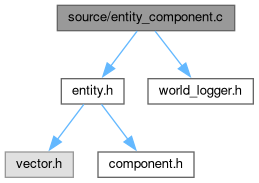
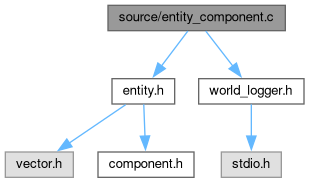
Deploying to gh-pages from @ osvegn/ECS@3f408a2cb7b3cf7668d38641804afcdbf748802a 🚀

diff --git a/docs/ECS/world__logger_8h_source.html b/docs/ECS/world__logger_8h_source.html
@@ -106,34 +106,36 @@ $(document).ready(function(){initNavTree('world__logger_8h_source.html',''); ini
 <div class="line"><a id="l00010" name="l00010"></a><span class="lineno">   10</span><span class="preprocessor">#ifndef WORLD_LOGGER_H</span></div>
 <div class="line"><a id="l00011" name="l00011"></a><span class="lineno">   11</span><span class="preprocessor">#define WORLD_LOGGER_H</span></div>
 <div class="line"><a id="l00012" name="l00012"></a><span class="lineno">   12</span> </div>
-<div class="line"><a id="l00013" name="l00013"></a><span class="lineno"><a class="line" href="world__logger_8h.html#a5d7ee46be4a5c8a58876b97c497f2738">   13</a></span><span class="keyword">enum</span> <a class="code hl_enumeration" href="world__logger_8h.html#a5d7ee46be4a5c8a58876b97c497f2738">world_log_level</a> {</div>
-<div class="line"><a id="l00014" name="l00014"></a><span class="lineno"><a class="line" href="world__logger_8h.html#a5d7ee46be4a5c8a58876b97c497f2738a05169768d1354cab52cbdf79b65bd0a3">   14</a></span>    <a class="code hl_enumvalue" href="world__logger_8h.html#a5d7ee46be4a5c8a58876b97c497f2738a05169768d1354cab52cbdf79b65bd0a3">WORLD_LOG_LEVEL_DEBUG</a>,</div>
-<div class="line"><a id="l00015" name="l00015"></a><span class="lineno"><a class="line" href="world__logger_8h.html#a5d7ee46be4a5c8a58876b97c497f2738aced20ef5e6c21605b375e20ea9582dea">   15</a></span>    <a class="code hl_enumvalue" href="world__logger_8h.html#a5d7ee46be4a5c8a58876b97c497f2738aced20ef5e6c21605b375e20ea9582dea">WORLD_LOG_LEVEL_INFO</a>,</div>
-<div class="line"><a id="l00016" name="l00016"></a><span class="lineno"><a class="line" href="world__logger_8h.html#a5d7ee46be4a5c8a58876b97c497f2738ab066374030eecdd5ec1b0e8a8b73c554">   16</a></span>    <a class="code hl_enumvalue" href="world__logger_8h.html#a5d7ee46be4a5c8a58876b97c497f2738ab066374030eecdd5ec1b0e8a8b73c554">WORLD_LOG_LEVEL_WARN</a>,</div>
-<div class="line"><a id="l00017" name="l00017"></a><span class="lineno"><a class="line" href="world__logger_8h.html#a5d7ee46be4a5c8a58876b97c497f2738afb8aeeffd05486dd98795d09879e729f">   17</a></span>    <a class="code hl_enumvalue" href="world__logger_8h.html#a5d7ee46be4a5c8a58876b97c497f2738afb8aeeffd05486dd98795d09879e729f">WORLD_LOG_LEVEL_ERROR</a>,</div>
-<div class="line"><a id="l00018" name="l00018"></a><span class="lineno"><a class="line" href="world__logger_8h.html#a5d7ee46be4a5c8a58876b97c497f2738a8f88bd972299eb043a19c0851c52a4af">   18</a></span>    <a class="code hl_enumvalue" href="world__logger_8h.html#a5d7ee46be4a5c8a58876b97c497f2738a8f88bd972299eb043a19c0851c52a4af">WORLD_LOG_LEVEL_FATAL</a>,</div>
-<div class="line"><a id="l00019" name="l00019"></a><span class="lineno">   19</span>};</div>
-<div class="line"><a id="l00020" name="l00020"></a><span class="lineno">   20</span> </div>
-<div class="line"><a id="l00021" name="l00021"></a><span class="lineno"><a class="line" href="world__logger_8h.html#aa77e596ef13d2f0f75d0ac9540ed358d">   21</a></span><span class="preprocessor">#define log_debug(...) world_log(WORLD_LOG_LEVEL_DEBUG, __FILE__, __LINE__, __VA_ARGS__)</span></div>
-<div class="line"><a id="l00022" name="l00022"></a><span class="lineno"><a class="line" href="world__logger_8h.html#aa1cfe5444875c8eca0ea6f6993977d6d">   22</a></span><span class="preprocessor">#define log_info(...) world_log(WORLD_LOG_LEVEL_INFO, __FILE__, __LINE__, __VA_ARGS__)</span></div>
-<div class="line"><a id="l00023" name="l00023"></a><span class="lineno"><a class="line" href="world__logger_8h.html#a04af09851c431d178f16b24fa1aac1e9">   23</a></span><span class="preprocessor">#define log_warn(...) world_log(WORLD_LOG_LEVEL_WARN, __FILE__, __LINE__, __VA_ARGS__)</span></div>
-<div class="line"><a id="l00024" name="l00024"></a><span class="lineno"><a class="line" href="world__logger_8h.html#a6ae72553ea9805dd87a463d6f710364d">   24</a></span><span class="preprocessor">#define log_error(...) world_log(WORLD_LOG_LEVEL_ERROR, __FILE__, __LINE__, __VA_ARGS__)</span></div>
-<div class="line"><a id="l00025" name="l00025"></a><span class="lineno"><a class="line" href="world__logger_8h.html#a704a43b1e2ff3bb554aff101efdbeecf">   25</a></span><span class="preprocessor">#define log_fatal(...) world_log(WORLD_LOG_LEVEL_FATAL, __FILE__, __LINE__, __VA_ARGS__)</span></div>
-<div class="line"><a id="l00026" name="l00026"></a><span class="lineno">   26</span> </div>
-<div class="line"><a id="l00027" name="l00027"></a><span class="lineno">   27</span><span class="keywordtype">int</span> <a class="code hl_function" href="world__logger_8h.html#a34af02d4a590ad432e3355c149941a88">world_log_init</a>(FILE *f);</div>
-<div class="line"><a id="l00028" name="l00028"></a><span class="lineno">   28</span><span class="keywordtype">int</span> <a class="code hl_function" href="world__logger_8h.html#af7472095fa238acfee648af9075ff66e">world_log</a>(<span class="keyword">enum</span> <a class="code hl_enumeration" href="world__logger_8h.html#a5d7ee46be4a5c8a58876b97c497f2738">world_log_level</a> level, <span class="keyword">const</span> <span class="keywordtype">char</span> *filename, <span class="keywordtype">int</span> line, <span class="keyword">const</span> <span class="keywordtype">char</span> *fmt, ...);</div>
-<div class="line"><a id="l00029" name="l00029"></a><span class="lineno">   29</span><span class="keywordtype">void</span> <a class="code hl_function" href="world__logger_8h.html#a652cdb629ae44951644415f04b464031">world_log_destroy</a>(<span class="keywordtype">void</span>);</div>
-<div class="line"><a id="l00030" name="l00030"></a><span class="lineno">   30</span> </div>
-<div class="line"><a id="l00031" name="l00031"></a><span class="lineno">   31</span><span class="preprocessor">#endif </span><span class="comment">/* WORLD_LOGGER_H */</span><span class="preprocessor"></span></div>
-<div class="ttc" id="aworld__logger_8h_html_a34af02d4a590ad432e3355c149941a88"><div class="ttname"><a href="world__logger_8h.html#a34af02d4a590ad432e3355c149941a88">world_log_init</a></div><div class="ttdeci">int world_log_init(FILE *f)</div><div class="ttdef"><b>Definition:</b> world_logger.c:20</div></div>
-<div class="ttc" id="aworld__logger_8h_html_a5d7ee46be4a5c8a58876b97c497f2738"><div class="ttname"><a href="world__logger_8h.html#a5d7ee46be4a5c8a58876b97c497f2738">world_log_level</a></div><div class="ttdeci">world_log_level</div><div class="ttdef"><b>Definition:</b> world_logger.h:13</div></div>
-<div class="ttc" id="aworld__logger_8h_html_a5d7ee46be4a5c8a58876b97c497f2738a05169768d1354cab52cbdf79b65bd0a3"><div class="ttname"><a href="world__logger_8h.html#a5d7ee46be4a5c8a58876b97c497f2738a05169768d1354cab52cbdf79b65bd0a3">WORLD_LOG_LEVEL_DEBUG</a></div><div class="ttdeci">@ WORLD_LOG_LEVEL_DEBUG</div><div class="ttdef"><b>Definition:</b> world_logger.h:14</div></div>
-<div class="ttc" id="aworld__logger_8h_html_a5d7ee46be4a5c8a58876b97c497f2738a8f88bd972299eb043a19c0851c52a4af"><div class="ttname"><a href="world__logger_8h.html#a5d7ee46be4a5c8a58876b97c497f2738a8f88bd972299eb043a19c0851c52a4af">WORLD_LOG_LEVEL_FATAL</a></div><div class="ttdeci">@ WORLD_LOG_LEVEL_FATAL</div><div class="ttdef"><b>Definition:</b> world_logger.h:18</div></div>
-<div class="ttc" id="aworld__logger_8h_html_a5d7ee46be4a5c8a58876b97c497f2738ab066374030eecdd5ec1b0e8a8b73c554"><div class="ttname"><a href="world__logger_8h.html#a5d7ee46be4a5c8a58876b97c497f2738ab066374030eecdd5ec1b0e8a8b73c554">WORLD_LOG_LEVEL_WARN</a></div><div class="ttdeci">@ WORLD_LOG_LEVEL_WARN</div><div class="ttdef"><b>Definition:</b> world_logger.h:16</div></div>
-<div class="ttc" id="aworld__logger_8h_html_a5d7ee46be4a5c8a58876b97c497f2738aced20ef5e6c21605b375e20ea9582dea"><div class="ttname"><a href="world__logger_8h.html#a5d7ee46be4a5c8a58876b97c497f2738aced20ef5e6c21605b375e20ea9582dea">WORLD_LOG_LEVEL_INFO</a></div><div class="ttdeci">@ WORLD_LOG_LEVEL_INFO</div><div class="ttdef"><b>Definition:</b> world_logger.h:15</div></div>
-<div class="ttc" id="aworld__logger_8h_html_a5d7ee46be4a5c8a58876b97c497f2738afb8aeeffd05486dd98795d09879e729f"><div class="ttname"><a href="world__logger_8h.html#a5d7ee46be4a5c8a58876b97c497f2738afb8aeeffd05486dd98795d09879e729f">WORLD_LOG_LEVEL_ERROR</a></div><div class="ttdeci">@ WORLD_LOG_LEVEL_ERROR</div><div class="ttdef"><b>Definition:</b> world_logger.h:17</div></div>
-<div class="ttc" id="aworld__logger_8h_html_a652cdb629ae44951644415f04b464031"><div class="ttname"><a href="world__logger_8h.html#a652cdb629ae44951644415f04b464031">world_log_destroy</a></div><div class="ttdeci">void world_log_destroy(void)</div><div class="ttdef"><b>Definition:</b> world_logger.c:92</div></div>
-<div class="ttc" id="aworld__logger_8h_html_af7472095fa238acfee648af9075ff66e"><div class="ttname"><a href="world__logger_8h.html#af7472095fa238acfee648af9075ff66e">world_log</a></div><div class="ttdeci">int world_log(enum world_log_level level, const char *filename, int line, const char *fmt,...)</div><div class="ttdef"><b>Definition:</b> world_logger.c:77</div></div>
+<div class="line"><a id="l00013" name="l00013"></a><span class="lineno">   13</span><span class="preprocessor">#include &lt;stdio.h&gt;</span></div>
+<div class="line"><a id="l00014" name="l00014"></a><span class="lineno">   14</span> </div>
+<div class="line"><a id="l00015" name="l00015"></a><span class="lineno"><a class="line" href="world__logger_8h.html#a5d7ee46be4a5c8a58876b97c497f2738">   15</a></span><span class="keyword">enum</span> <a class="code hl_enumeration" href="world__logger_8h.html#a5d7ee46be4a5c8a58876b97c497f2738">world_log_level</a> {</div>
+<div class="line"><a id="l00016" name="l00016"></a><span class="lineno"><a class="line" href="world__logger_8h.html#a5d7ee46be4a5c8a58876b97c497f2738a05169768d1354cab52cbdf79b65bd0a3">   16</a></span>    <a class="code hl_enumvalue" href="world__logger_8h.html#a5d7ee46be4a5c8a58876b97c497f2738a05169768d1354cab52cbdf79b65bd0a3">WORLD_LOG_LEVEL_DEBUG</a>,</div>
+<div class="line"><a id="l00017" name="l00017"></a><span class="lineno"><a class="line" href="world__logger_8h.html#a5d7ee46be4a5c8a58876b97c497f2738aced20ef5e6c21605b375e20ea9582dea">   17</a></span>    <a class="code hl_enumvalue" href="world__logger_8h.html#a5d7ee46be4a5c8a58876b97c497f2738aced20ef5e6c21605b375e20ea9582dea">WORLD_LOG_LEVEL_INFO</a>,</div>
+<div class="line"><a id="l00018" name="l00018"></a><span class="lineno"><a class="line" href="world__logger_8h.html#a5d7ee46be4a5c8a58876b97c497f2738ab066374030eecdd5ec1b0e8a8b73c554">   18</a></span>    <a class="code hl_enumvalue" href="world__logger_8h.html#a5d7ee46be4a5c8a58876b97c497f2738ab066374030eecdd5ec1b0e8a8b73c554">WORLD_LOG_LEVEL_WARN</a>,</div>
+<div class="line"><a id="l00019" name="l00019"></a><span class="lineno"><a class="line" href="world__logger_8h.html#a5d7ee46be4a5c8a58876b97c497f2738afb8aeeffd05486dd98795d09879e729f">   19</a></span>    <a class="code hl_enumvalue" href="world__logger_8h.html#a5d7ee46be4a5c8a58876b97c497f2738afb8aeeffd05486dd98795d09879e729f">WORLD_LOG_LEVEL_ERROR</a>,</div>
+<div class="line"><a id="l00020" name="l00020"></a><span class="lineno"><a class="line" href="world__logger_8h.html#a5d7ee46be4a5c8a58876b97c497f2738a8f88bd972299eb043a19c0851c52a4af">   20</a></span>    <a class="code hl_enumvalue" href="world__logger_8h.html#a5d7ee46be4a5c8a58876b97c497f2738a8f88bd972299eb043a19c0851c52a4af">WORLD_LOG_LEVEL_FATAL</a>,</div>
+<div class="line"><a id="l00021" name="l00021"></a><span class="lineno">   21</span>};</div>
+<div class="line"><a id="l00022" name="l00022"></a><span class="lineno">   22</span> </div>
+<div class="line"><a id="l00023" name="l00023"></a><span class="lineno"><a class="line" href="world__logger_8h.html#aa77e596ef13d2f0f75d0ac9540ed358d">   23</a></span><span class="preprocessor">#define log_debug(...) world_log(WORLD_LOG_LEVEL_DEBUG, __FILE__, __LINE__, __VA_ARGS__)</span></div>
+<div class="line"><a id="l00024" name="l00024"></a><span class="lineno"><a class="line" href="world__logger_8h.html#aa1cfe5444875c8eca0ea6f6993977d6d">   24</a></span><span class="preprocessor">#define log_info(...) world_log(WORLD_LOG_LEVEL_INFO, __FILE__, __LINE__, __VA_ARGS__)</span></div>
+<div class="line"><a id="l00025" name="l00025"></a><span class="lineno"><a class="line" href="world__logger_8h.html#a04af09851c431d178f16b24fa1aac1e9">   25</a></span><span class="preprocessor">#define log_warn(...) world_log(WORLD_LOG_LEVEL_WARN, __FILE__, __LINE__, __VA_ARGS__)</span></div>
+<div class="line"><a id="l00026" name="l00026"></a><span class="lineno"><a class="line" href="world__logger_8h.html#a6ae72553ea9805dd87a463d6f710364d">   26</a></span><span class="preprocessor">#define log_error(...) world_log(WORLD_LOG_LEVEL_ERROR, __FILE__, __LINE__, __VA_ARGS__)</span></div>
+<div class="line"><a id="l00027" name="l00027"></a><span class="lineno"><a class="line" href="world__logger_8h.html#a704a43b1e2ff3bb554aff101efdbeecf">   27</a></span><span class="preprocessor">#define log_fatal(...) world_log(WORLD_LOG_LEVEL_FATAL, __FILE__, __LINE__, __VA_ARGS__)</span></div>
+<div class="line"><a id="l00028" name="l00028"></a><span class="lineno">   28</span> </div>
+<div class="line"><a id="l00029" name="l00029"></a><span class="lineno">   29</span><span class="keywordtype">int</span> <a class="code hl_function" href="world__logger_8h.html#a34af02d4a590ad432e3355c149941a88">world_log_init</a>(FILE *f);</div>
+<div class="line"><a id="l00030" name="l00030"></a><span class="lineno">   30</span><span class="keywordtype">int</span> <a class="code hl_function" href="world__logger_8h.html#af7472095fa238acfee648af9075ff66e">world_log</a>(<span class="keyword">enum</span> <a class="code hl_enumeration" href="world__logger_8h.html#a5d7ee46be4a5c8a58876b97c497f2738">world_log_level</a> level, <span class="keyword">const</span> <span class="keywordtype">char</span> *filename, <span class="keywordtype">int</span> line, <span class="keyword">const</span> <span class="keywordtype">char</span> *fmt, ...);</div>
+<div class="line"><a id="l00031" name="l00031"></a><span class="lineno">   31</span><span class="keywordtype">void</span> <a class="code hl_function" href="world__logger_8h.html#a652cdb629ae44951644415f04b464031">world_log_destroy</a>(<span class="keywordtype">void</span>);</div>
+<div class="line"><a id="l00032" name="l00032"></a><span class="lineno">   32</span> </div>
+<div class="line"><a id="l00033" name="l00033"></a><span class="lineno">   33</span><span class="preprocessor">#endif </span><span class="comment">/* WORLD_LOGGER_H */</span><span class="preprocessor"></span></div>
+<div class="ttc" id="aworld__logger_8h_html_a34af02d4a590ad432e3355c149941a88"><div class="ttname"><a href="world__logger_8h.html#a34af02d4a590ad432e3355c149941a88">world_log_init</a></div><div class="ttdeci">int world_log_init(FILE *f)</div><div class="ttdef"><b>Definition:</b> world_logger.c:19</div></div>
+<div class="ttc" id="aworld__logger_8h_html_a5d7ee46be4a5c8a58876b97c497f2738"><div class="ttname"><a href="world__logger_8h.html#a5d7ee46be4a5c8a58876b97c497f2738">world_log_level</a></div><div class="ttdeci">world_log_level</div><div class="ttdef"><b>Definition:</b> world_logger.h:15</div></div>
+<div class="ttc" id="aworld__logger_8h_html_a5d7ee46be4a5c8a58876b97c497f2738a05169768d1354cab52cbdf79b65bd0a3"><div class="ttname"><a href="world__logger_8h.html#a5d7ee46be4a5c8a58876b97c497f2738a05169768d1354cab52cbdf79b65bd0a3">WORLD_LOG_LEVEL_DEBUG</a></div><div class="ttdeci">@ WORLD_LOG_LEVEL_DEBUG</div><div class="ttdef"><b>Definition:</b> world_logger.h:16</div></div>
+<div class="ttc" id="aworld__logger_8h_html_a5d7ee46be4a5c8a58876b97c497f2738a8f88bd972299eb043a19c0851c52a4af"><div class="ttname"><a href="world__logger_8h.html#a5d7ee46be4a5c8a58876b97c497f2738a8f88bd972299eb043a19c0851c52a4af">WORLD_LOG_LEVEL_FATAL</a></div><div class="ttdeci">@ WORLD_LOG_LEVEL_FATAL</div><div class="ttdef"><b>Definition:</b> world_logger.h:20</div></div>
+<div class="ttc" id="aworld__logger_8h_html_a5d7ee46be4a5c8a58876b97c497f2738ab066374030eecdd5ec1b0e8a8b73c554"><div class="ttname"><a href="world__logger_8h.html#a5d7ee46be4a5c8a58876b97c497f2738ab066374030eecdd5ec1b0e8a8b73c554">WORLD_LOG_LEVEL_WARN</a></div><div class="ttdeci">@ WORLD_LOG_LEVEL_WARN</div><div class="ttdef"><b>Definition:</b> world_logger.h:18</div></div>
+<div class="ttc" id="aworld__logger_8h_html_a5d7ee46be4a5c8a58876b97c497f2738aced20ef5e6c21605b375e20ea9582dea"><div class="ttname"><a href="world__logger_8h.html#a5d7ee46be4a5c8a58876b97c497f2738aced20ef5e6c21605b375e20ea9582dea">WORLD_LOG_LEVEL_INFO</a></div><div class="ttdeci">@ WORLD_LOG_LEVEL_INFO</div><div class="ttdef"><b>Definition:</b> world_logger.h:17</div></div>
+<div class="ttc" id="aworld__logger_8h_html_a5d7ee46be4a5c8a58876b97c497f2738afb8aeeffd05486dd98795d09879e729f"><div class="ttname"><a href="world__logger_8h.html#a5d7ee46be4a5c8a58876b97c497f2738afb8aeeffd05486dd98795d09879e729f">WORLD_LOG_LEVEL_ERROR</a></div><div class="ttdeci">@ WORLD_LOG_LEVEL_ERROR</div><div class="ttdef"><b>Definition:</b> world_logger.h:19</div></div>
+<div class="ttc" id="aworld__logger_8h_html_a652cdb629ae44951644415f04b464031"><div class="ttname"><a href="world__logger_8h.html#a652cdb629ae44951644415f04b464031">world_log_destroy</a></div><div class="ttdeci">void world_log_destroy(void)</div><div class="ttdef"><b>Definition:</b> world_logger.c:97</div></div>
+<div class="ttc" id="aworld__logger_8h_html_af7472095fa238acfee648af9075ff66e"><div class="ttname"><a href="world__logger_8h.html#af7472095fa238acfee648af9075ff66e">world_log</a></div><div class="ttdeci">int world_log(enum world_log_level level, const char *filename, int line, const char *fmt,...)</div><div class="ttdef"><b>Definition:</b> world_logger.c:81</div></div>
 </div><!-- fragment --></div><!-- contents -->
 </div><!-- doc-content -->
 <!-- start footer part -->

diff --git a/docs/ECS/world__logger_8c.html b/docs/ECS/world__logger_8c.html
@@ -99,24 +99,23 @@ $(document).ready(function(){initNavTree('world__logger_8c.html',''); initResiza
 <div class="contents">
 <div class="textblock"><code>#include &quot;<a class="el" href="world__logger_8h_source.html">world_logger.h</a>&quot;</code><br />
 <code>#include &lt;stdarg.h&gt;</code><br />
-<code>#include &lt;stdio.h&gt;</code><br />
 <code>#include &lt;stdlib.h&gt;</code><br />
 <code>#include &lt;time.h&gt;</code><br />
-<code>#include &lt;unistd.h&gt;</code><br />
 <code>#include &lt;sys/stat.h&gt;</code><br />
+<code>#include &lt;unistd.h&gt;</code><br />
 </div><div class="textblock"><div class="dynheader">
 Include dependency graph for world_logger.c:</div>
 <div class="dyncontent">
 <div class="center"><img src="world__logger_8c__incl.png" border="0" usemap="#asource_2world__logger_8c" alt=""/></div>
 <map name="asource_2world__logger_8c" id="asource_2world__logger_8c">
-<area shape="rect" title=" " alt="" coords="268,5,416,31"/>
+<area shape="rect" title=" " alt="" coords="225,5,373,31"/>
 <area shape="rect" href="world__logger_8h.html" title=" " alt="" coords="5,79,111,104"/>
 <area shape="rect" title=" " alt="" coords="135,79,203,104"/>
-<area shape="rect" title=" " alt="" coords="227,79,287,104"/>
-<area shape="rect" title=" " alt="" coords="311,79,373,104"/>
-<area shape="rect" title=" " alt="" coords="397,79,455,104"/>
-<area shape="rect" title=" " alt="" coords="479,79,546,104"/>
-<area shape="rect" title=" " alt="" coords="571,79,649,104"/>
+<area shape="rect" title=" " alt="" coords="227,79,289,104"/>
+<area shape="rect" title=" " alt="" coords="313,79,371,104"/>
+<area shape="rect" title=" " alt="" coords="395,79,473,104"/>
+<area shape="rect" title=" " alt="" coords="498,79,565,104"/>
+<area shape="rect" title=" " alt="" coords="28,152,88,177"/>
 </map>
 </div>
 </div><table class="memberdecls">

diff --git a/docs/ECS/world__constructor_8c.html b/docs/ECS/world__constructor_8c.html
@@ -103,15 +103,16 @@ Include dependency graph for world_constructor.c:</div>
 <div class="dyncontent">
 <div class="center"><img src="world__constructor_8c__incl.png" border="0" usemap="#asource_2world__constructor_8c" alt=""/></div>
 <map name="asource_2world__constructor_8c" id="asource_2world__constructor_8c">
-<area shape="rect" title=" " alt="" coords="120,5,299,31"/>
-<area shape="rect" href="world_8h.html" title=" " alt="" coords="125,79,187,104"/>
-<area shape="rect" href="world__logger_8h.html" title=" " alt="" coords="211,79,317,104"/>
-<area shape="rect" title=" " alt="" coords="129,225,197,251"/>
+<area shape="rect" title=" " alt="" coords="207,5,385,31"/>
+<area shape="rect" href="world_8h.html" title=" " alt="" coords="211,79,274,104"/>
+<area shape="rect" href="world__logger_8h.html" title=" " alt="" coords="313,79,418,104"/>
+<area shape="rect" title=" " alt="" coords="278,225,346,251"/>
 <area shape="rect" href="system_8h.html" title=" " alt="" coords="5,152,80,177"/>
-<area shape="rect" href="resource_8h.html" title=" " alt="" coords="155,152,237,177"/>
-<area shape="rect" href="entity_8h.html" title=" " alt="" coords="262,152,325,177"/>
+<area shape="rect" href="resource_8h.html" title=" " alt="" coords="104,152,187,177"/>
+<area shape="rect" href="entity_8h.html" title=" " alt="" coords="211,152,274,177"/>
 <area shape="rect" title=" " alt="" coords="5,225,80,251"/>
-<area shape="rect" href="component_8h.html" title=" " alt="" coords="245,225,341,251"/>
+<area shape="rect" href="component_8h.html" title=" " alt="" coords="157,225,253,251"/>
+<area shape="rect" title=" " alt="" coords="350,152,410,177"/>
 </map>
 </div>
 </div><table class="memberdecls">

diff --git a/docs/ECS/world__logger_8h.html b/docs/ECS/world__logger_8h.html
@@ -98,7 +98,17 @@ $(document).ready(function(){initNavTree('world__logger_8h.html',''); initResiza
   <div class="headertitle"><div class="title">world_logger.h File Reference</div></div>
 </div><!--header-->
 <div class="contents">
-<div class="textblock"><div class="dynheader">
+<div class="textblock"><code>#include &lt;stdio.h&gt;</code><br />
+</div><div class="textblock"><div class="dynheader">
+Include dependency graph for world_logger.h:</div>
+<div class="dyncontent">
+<div class="center"><img src="world__logger_8h__incl.png" border="0" usemap="#ainclude_2world__logger_8h" alt=""/></div>
+<map name="ainclude_2world__logger_8h" id="ainclude_2world__logger_8h">
+<area shape="rect" title=" " alt="" coords="5,5,156,31"/>
+<area shape="rect" title=" " alt="" coords="51,79,111,104"/>
+</map>
+</div>
+</div><div class="textblock"><div class="dynheader">
 This graph shows which files directly or indirectly include this file:</div>
 <div class="dyncontent">
 <div class="center"><img src="world__logger_8h__dep__incl.png" border="0" usemap="#ainclude_2world__logger_8hdep" alt=""/></div>

diff --git a/docs/ECS/entity__component_8c.html b/docs/ECS/entity__component_8c.html
@@ -103,11 +103,12 @@ Include dependency graph for entity_component.c:</div>
 <div class="dyncontent">
 <div class="center"><img src="entity__component_8c__incl.png" border="0" usemap="#asource_2entity__component_8c" alt=""/></div>
 <map name="asource_2entity__component_8c" id="asource_2entity__component_8c">
-<area shape="rect" title=" " alt="" coords="57,5,235,31"/>
-<area shape="rect" href="entity_8h.html" title=" " alt="" coords="61,79,124,104"/>
-<area shape="rect" href="world__logger_8h.html" title=" " alt="" coords="148,79,253,104"/>
+<area shape="rect" title=" " alt="" coords="108,5,285,31"/>
+<area shape="rect" href="entity_8h.html" title=" " alt="" coords="112,79,175,104"/>
+<area shape="rect" href="world__logger_8h.html" title=" " alt="" coords="199,79,304,104"/>
 <area shape="rect" title=" " alt="" coords="5,152,73,177"/>
 <area shape="rect" href="component_8h.html" title=" " alt="" coords="98,152,194,177"/>
+<area shape="rect" title=" " alt="" coords="221,152,281,177"/>
 </map>
 </div>
 </div><table class="memberdecls">

diff --git a/docs/ECS/component__destructor_8c.html b/docs/ECS/component__destructor_8c.html
@@ -108,6 +108,7 @@ Include dependency graph for component_destructor.c:</div>
 <area shape="rect" href="component_8h.html" title=" " alt="" coords="5,79,101,104"/>
 <area shape="rect" href="world__logger_8h.html" title=" " alt="" coords="126,79,231,104"/>
 <area shape="rect" title=" " alt="" coords="255,79,318,104"/>
+<area shape="rect" title=" " alt="" coords="149,152,209,177"/>
 </map>
 </div>
 </div><table class="memberdecls">
